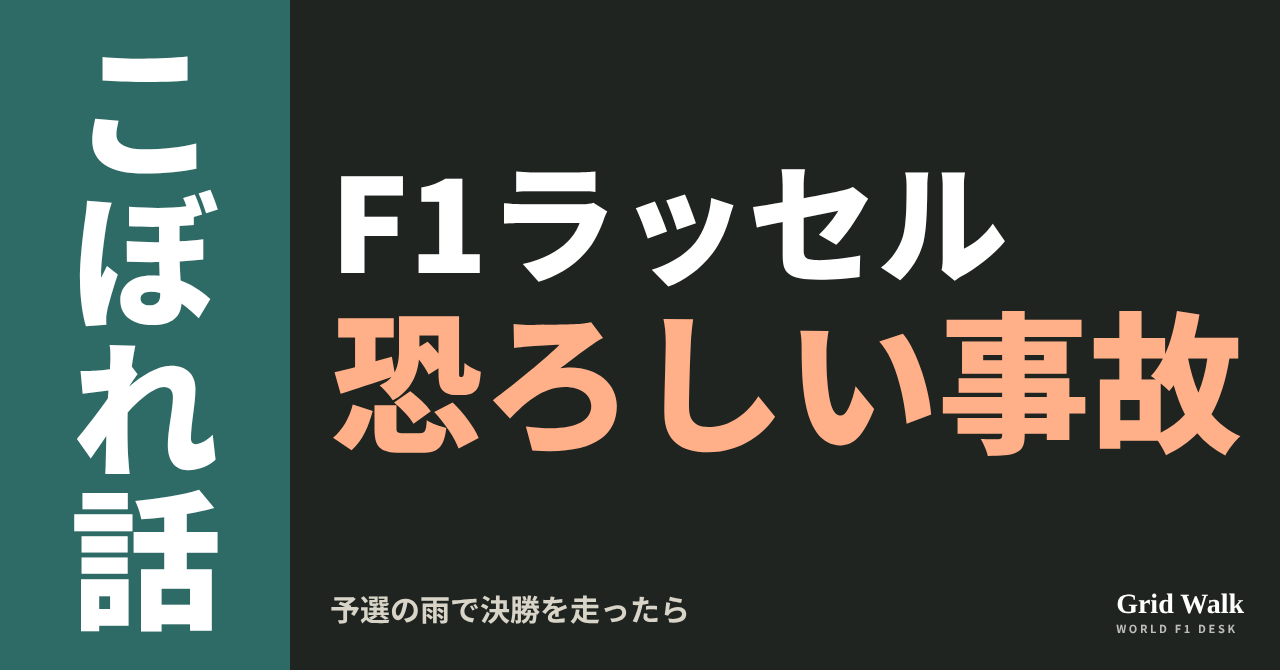
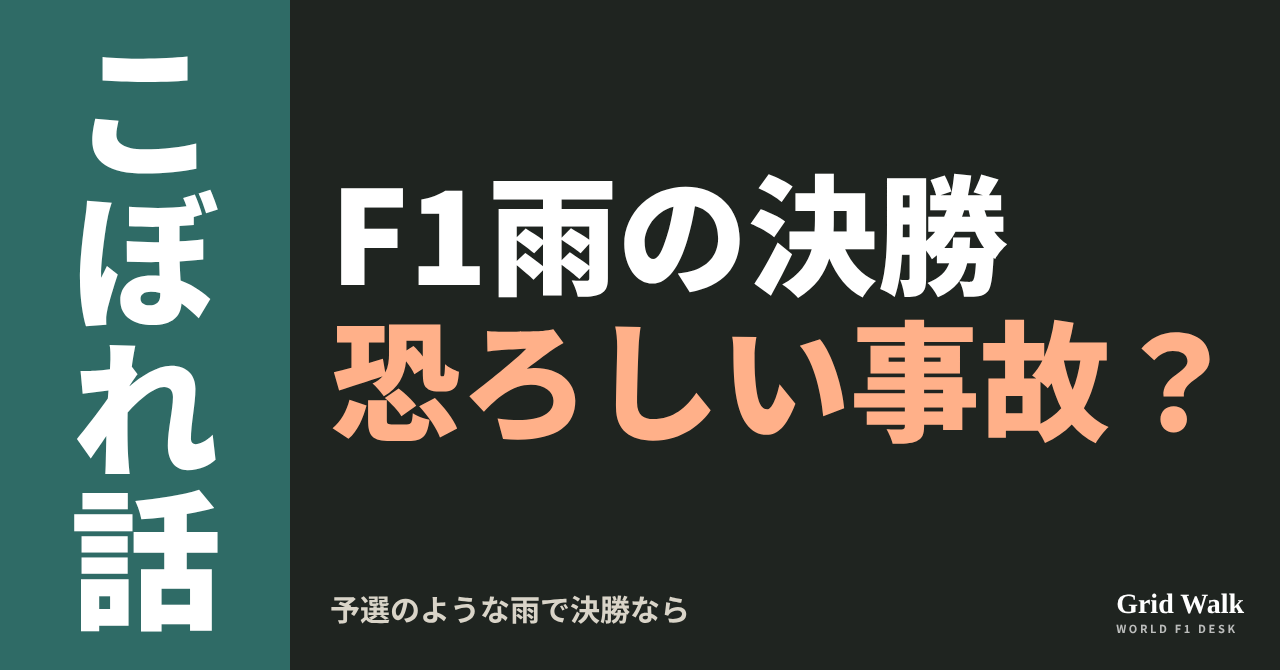
Pending images 11/8 evening: W1 fix, sheets
Claude-Session: https://claude.ai/code/session_01LGMvzb8B3aK7DkzCCi7qDe

Changed region(s): [[0.25, 0.2388, 0.9688, 0.6866], [0.3125, 0.8657, 0.5312, 0.9552], [0.25, 0.3881, 0.2812, 0.4478]]

diff --git a/desk/pending/1108b/W1.html b/desk/pending/1108b/W1.html
@@ -11,7 +11,7 @@ em{font-style:normal;color:#FFB089}
 .br{position:absolute;right:36px;bottom:34px;font:700 28px Georgia,serif}.br small{display:block;font:700 11px 'Noto Sans CJK JP';letter-spacing:.24em;opacity:.7}
 .row{display:flex;align-items:center;gap:28px;white-space:nowrap;font-weight:900}
 .row svg{flex:0 0 auto}
-</style><div class=c><div class=p><b>こぼれ話</b></div><div class=r><div class=l1>F1ラッセル</div><div class=l2><em>恐ろしい事故</em></div></div><div class=s>予選の雨で決勝を走ったら</div><div class=br>Grid Walk<small>WORLD F1 DESK</small></div></div>
+</style><div class=c><div class=p><b>こぼれ話</b></div><div class=r><div class=l1>F1雨の決勝</div><div class=l2><em>恐ろしい事故？</em></div></div><div class=s>予選のような雨で決勝なら</div><div class=br>Grid Walk<small>WORLD F1 DESK</small></div></div>
 <script>
 document.querySelectorAll('.l1,.l2,.l3,.s,.row').forEach(el=>{let f=parseFloat(getComputedStyle(el).fontSize);while(el.scrollWidth>el.clientWidth+1&&f>20){f-=2;el.style.fontSize=f+'px'}});
 const r=document.querySelector('.r');let n=0;while(r.scrollHeight>r.clientHeight+1&&n++<80){document.querySelectorAll('.l1,.l2,.l3,.row').forEach(el=>{el.style.fontSize=(parseFloat(getComputedStyle(el).fontSize)-3)+'px'})}
